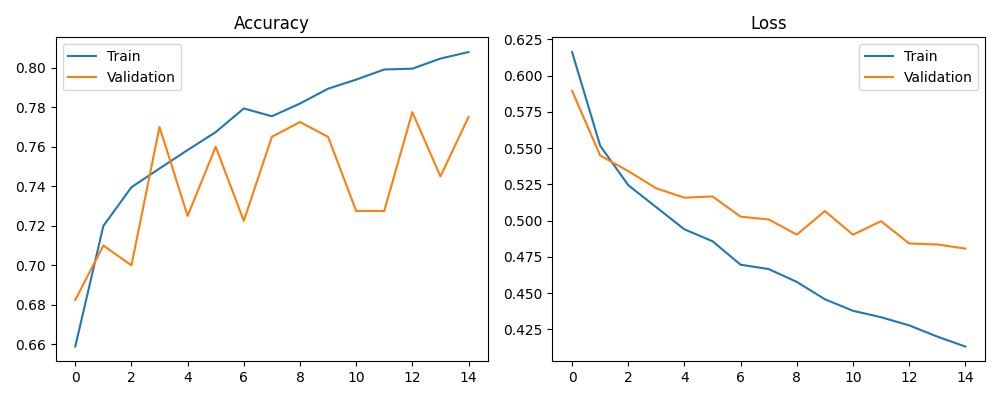
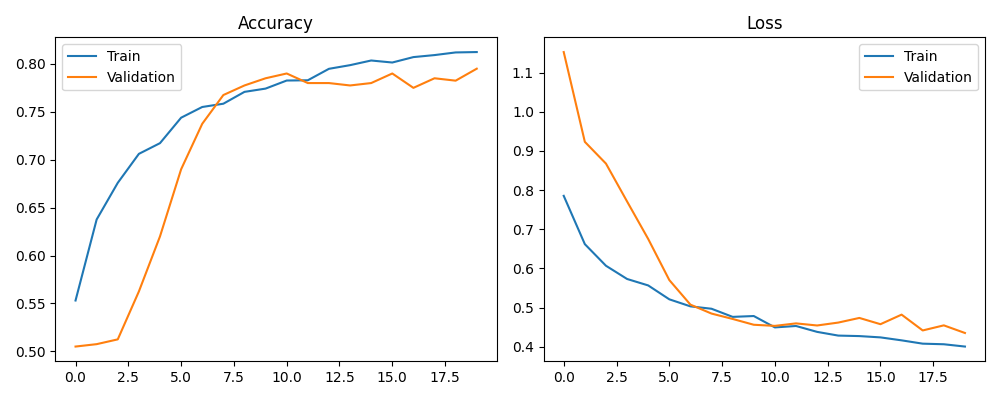
Feat: Augmentation and freezing optimization

diff --git a/Exp3/train.py b/Exp3/train.py
@@ -3,31 +3,41 @@ from config.config import *
 from models.mobilenet_model import build_model
 from utils.plot_metrics import plot_history
 
+
 data_augmentation = tf.keras.Sequential([
     tf.keras.layers.RandomFlip("horizontal"),
     tf.keras.layers.RandomRotation(0.1),
     tf.keras.layers.RandomZoom(0.1),
 ])
 
-
 train_ds = tf.keras.preprocessing.image_dataset_from_directory(
     "data/train",
     image_size=IMG_SIZE,
-    batch_size=BATCH_SIZE
+    batch_size=BATCH_SIZE,
+    shuffle=True
 )
 
 val_ds = tf.keras.preprocessing.image_dataset_from_directory(
     "data/val",
     image_size=IMG_SIZE,
-    batch_size=BATCH_SIZE
+    batch_size=BATCH_SIZE,
+    shuffle=False
 )
+
+train_ds = train_ds.map(
+    lambda x, y: (data_augmentation(x, training=True), y),
+    num_parallel_calls=tf.data.AUTOTUNE
+)
+
+train_ds = train_ds.prefetch(buffer_size=tf.data.AUTOTUNE)
+val_ds = val_ds.prefetch(buffer_size=tf.data.AUTOTUNE)
 
 model = build_model(NUM_CLASSES)
 
 model.compile(
     optimizer=tf.keras.optimizers.Adam(learning_rate=LEARNING_RATE),
-    loss='sparse_categorical_crossentropy',
-    metrics=['accuracy']
+    loss="sparse_categorical_crossentropy",
+    metrics=["accuracy"]
 )
 
 history = model.fit(

diff --git a/Exp3/models/mobilenet_model.py b/Exp3/models/mobilenet_model.py
@@ -10,11 +10,19 @@ def build_model(num_classes):
         input_shape=(224, 224, 3)
     )
 
-    base_model.trainable = False  # Freeze layers
+        # Freeze most layers
+    for layer in base_model.layers[:-30]:
+        layer.trainable = False
+
+    # Unfreeze last 30 layers
+    for layer in base_model.layers[-30:]:
+        layer.trainable = True
+
 
     x = base_model.output
     x = GlobalAveragePooling2D()(x)
-    x = Dense(128, activation='relu')(x)
+    x = Dense(256, activation='relu')(x)
+    x = tf.keras.layers.Dropout(0.5)(x)
     outputs = Dense(num_classes, activation='softmax')(x)
 
     model = Model(inputs=base_model.input, outputs=outputs)

diff --git a/Exp3/config/config.py b/Exp3/config/config.py
@@ -1,5 +1,5 @@
 IMG_SIZE = (224, 224)
 BATCH_SIZE = 32
-EPOCHS = 15
+EPOCHS = 40
 NUM_CLASSES = 2
-LEARNING_RATE = 0.0001
+LEARNING_RATE = 1e-5
